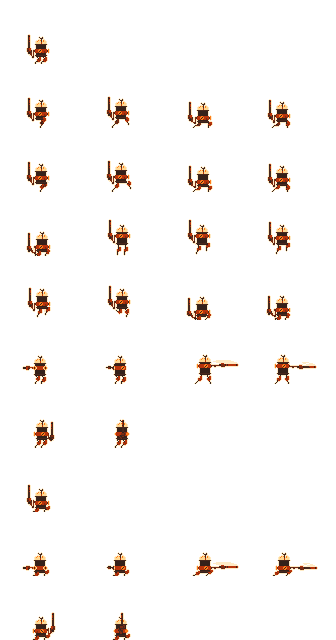
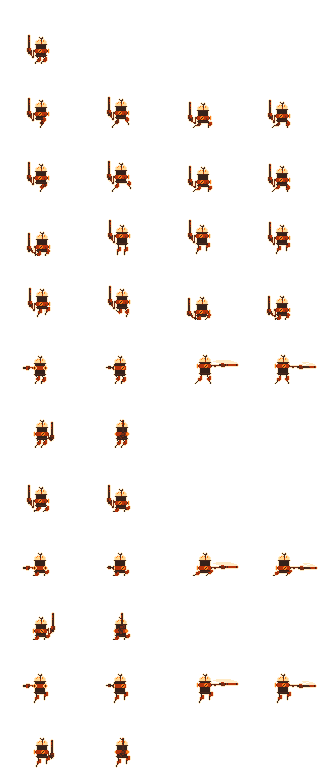
air attack

diff --git a/player.js b/player.js
@@ -87,7 +87,7 @@ Player.prototype.attack = function() {
         this.frameNumber = 32;
     } else if (this.state == JUMPING) {
         this.state = AIR_ATK;
-        this.frameNumber = 20;
+        this.frameNumber = 40;
     } else {
         this.state = NORM_ATTK;
         this.frameNumber = 20;
